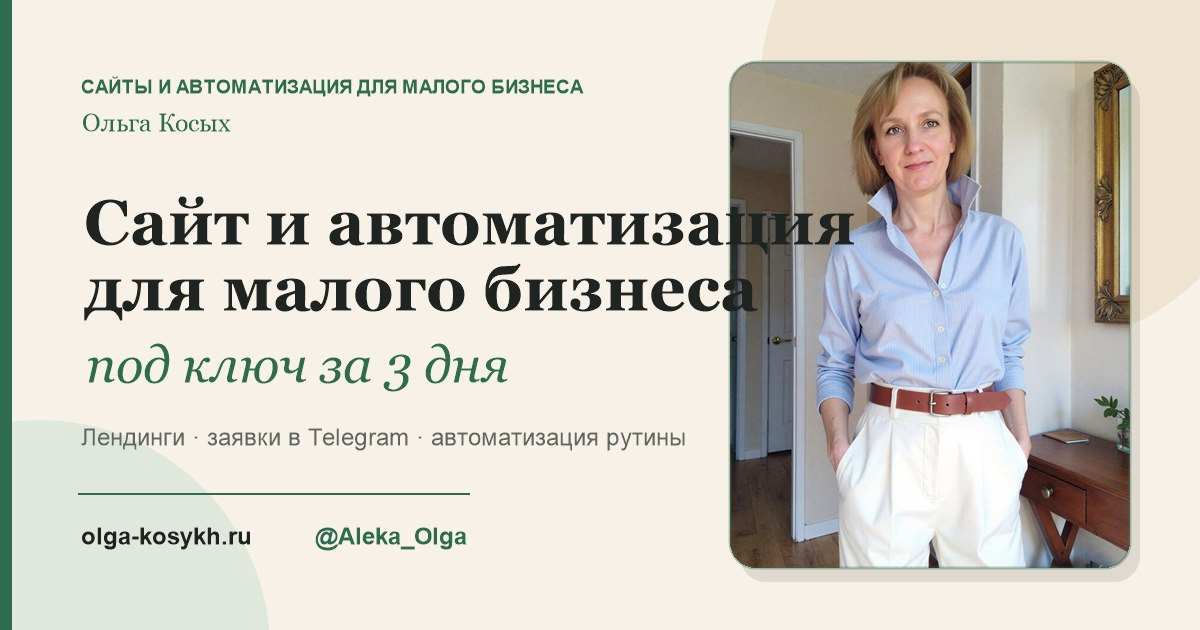
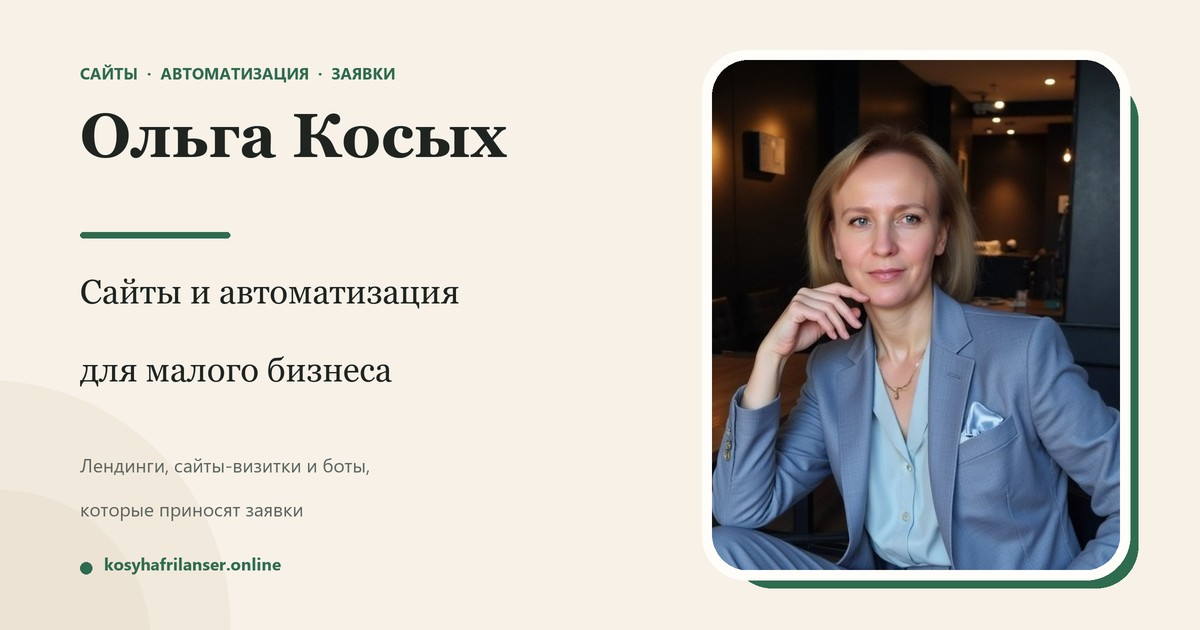
Новый og-image 1200x630 с актуальным фото

diff --git a/index.html b/index.html
@@ -15,13 +15,13 @@
   <meta property="og:title" content="Сайты и автоматизация для малого бизнеса — Ольга Косых">
   <meta property="og:description" content="Лендинг за 3 дня, заявки в Telegram и автоматизация рутины. Один исполнитель, понятные сроки и цена.">
   <meta property="og:url" content="https://kosyhafrilanser.online/">
-  <meta property="og:image" content="https://kosyhafrilanser.online/assets/img/og-image.jpg">
+  <meta property="og:image" content="https://kosyhafrilanser.online/assets/img/og-image.jpg?v=2">
   <meta property="og:image:width" content="1200">
   <meta property="og:image:height" content="630">
   <meta name="twitter:card" content="summary_large_image">
   <meta name="twitter:title" content="Сайты и автоматизация для малого бизнеса — Ольга Косых">
   <meta name="twitter:description" content="Лендинг за 3 дня, заявки в Telegram и автоматизация рутины.">
-  <meta name="twitter:image" content="https://kosyhafrilanser.online/assets/img/og-image.jpg">
+  <meta name="twitter:image" content="https://kosyhafrilanser.online/assets/img/og-image.jpg?v=2">
 
   <link rel="icon" href="assets/img/favicon.svg" type="image/svg+xml">
   <link rel="apple-touch-icon" href="assets/img/favicon.svg">
@@ -52,7 +52,7 @@
     "name": "Ольга Косых — сайты и автоматизация для малого бизнеса",
     "description": "Лендинги за 3 дня и автоматизация заявок для малого бизнеса. Сайт под ключ, заявки в Telegram, интеграции с таблицами.",
     "url": "https://kosyhafrilanser.online/",
-    "image": "https://kosyhafrilanser.online/assets/img/og-image.jpg",
+    "image": "https://kosyhafrilanser.online/assets/img/og-image.jpg?v=2",
     "areaServed": "Россия",
     "founder": { "@type": "Person", "name": "Ольга Косых" },
     "sameAs": ["https://github.com/lazyness680-gif", "https://t.me/Aleka_Olga"],
